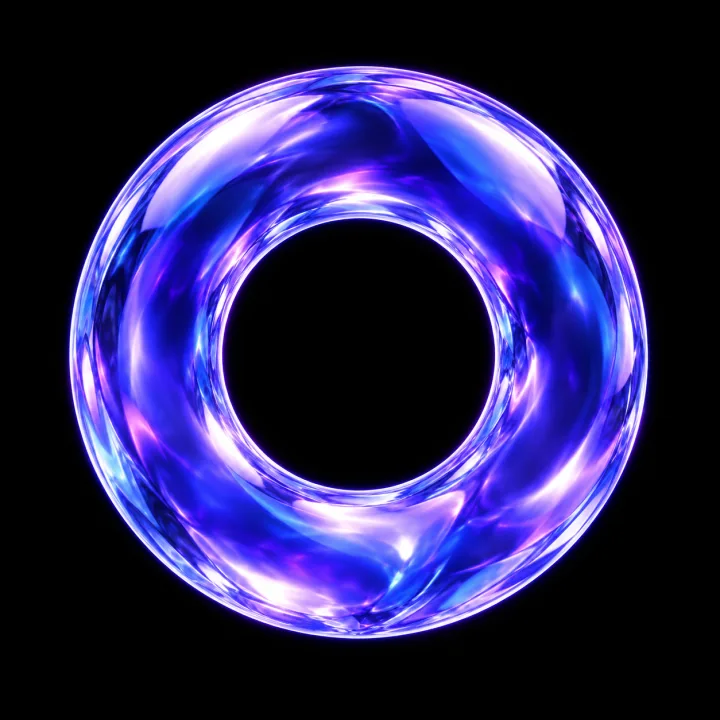
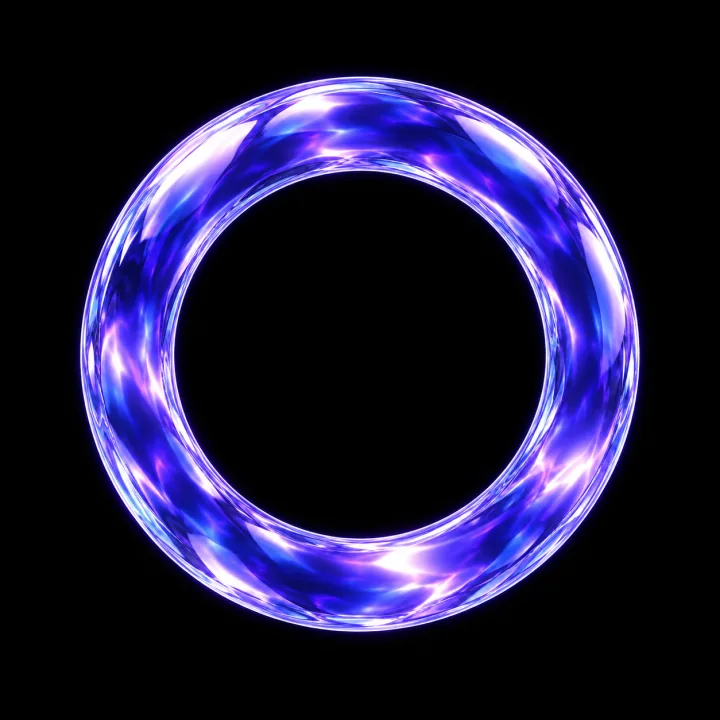
feat(site): кольцо посещаемости перегенерировано - тоньше и ровнее, центр маски подогнан под новую картинку

diff --git a/index.html b/index.html
@@ -194,12 +194,12 @@
   .glass p { position: relative; max-width: 34ch; font-size: 17px; line-height: 1.5; color: #8E8BA8; }
   .glass p b { color: var(--fg); font-weight: 600; }
   /* Кольцо заполнено на --p: снизу та же картинка приглушённой дорожкой, сверху она же под конической маской.
-     Центр маски сдвинут под центр тора на картинке (621,633 из 1254). */
+     Центр маски сдвинут под центр тора на картинке (629,625 из 1254). */
   .glass .ring { width: 48%; top: 5%; right: 5%; display: grid; }
   .ring img { grid-area: 1 / 1; width: 100%; opacity: .16; }
   .ring .fill {
     opacity: 1;
-    --m: conic-gradient(from 0deg at 49.5% 50.5%, #000 calc(var(--p) - .6%), transparent var(--p));
+    --m: conic-gradient(from 0deg at 50.2% 49.8%, #000 calc(var(--p) - .6%), transparent var(--p));
     -webkit-mask-image: var(--m); mask-image: var(--m);
   }
   .glass .cal { width: 46%; top: -4%; right: -4%; }
